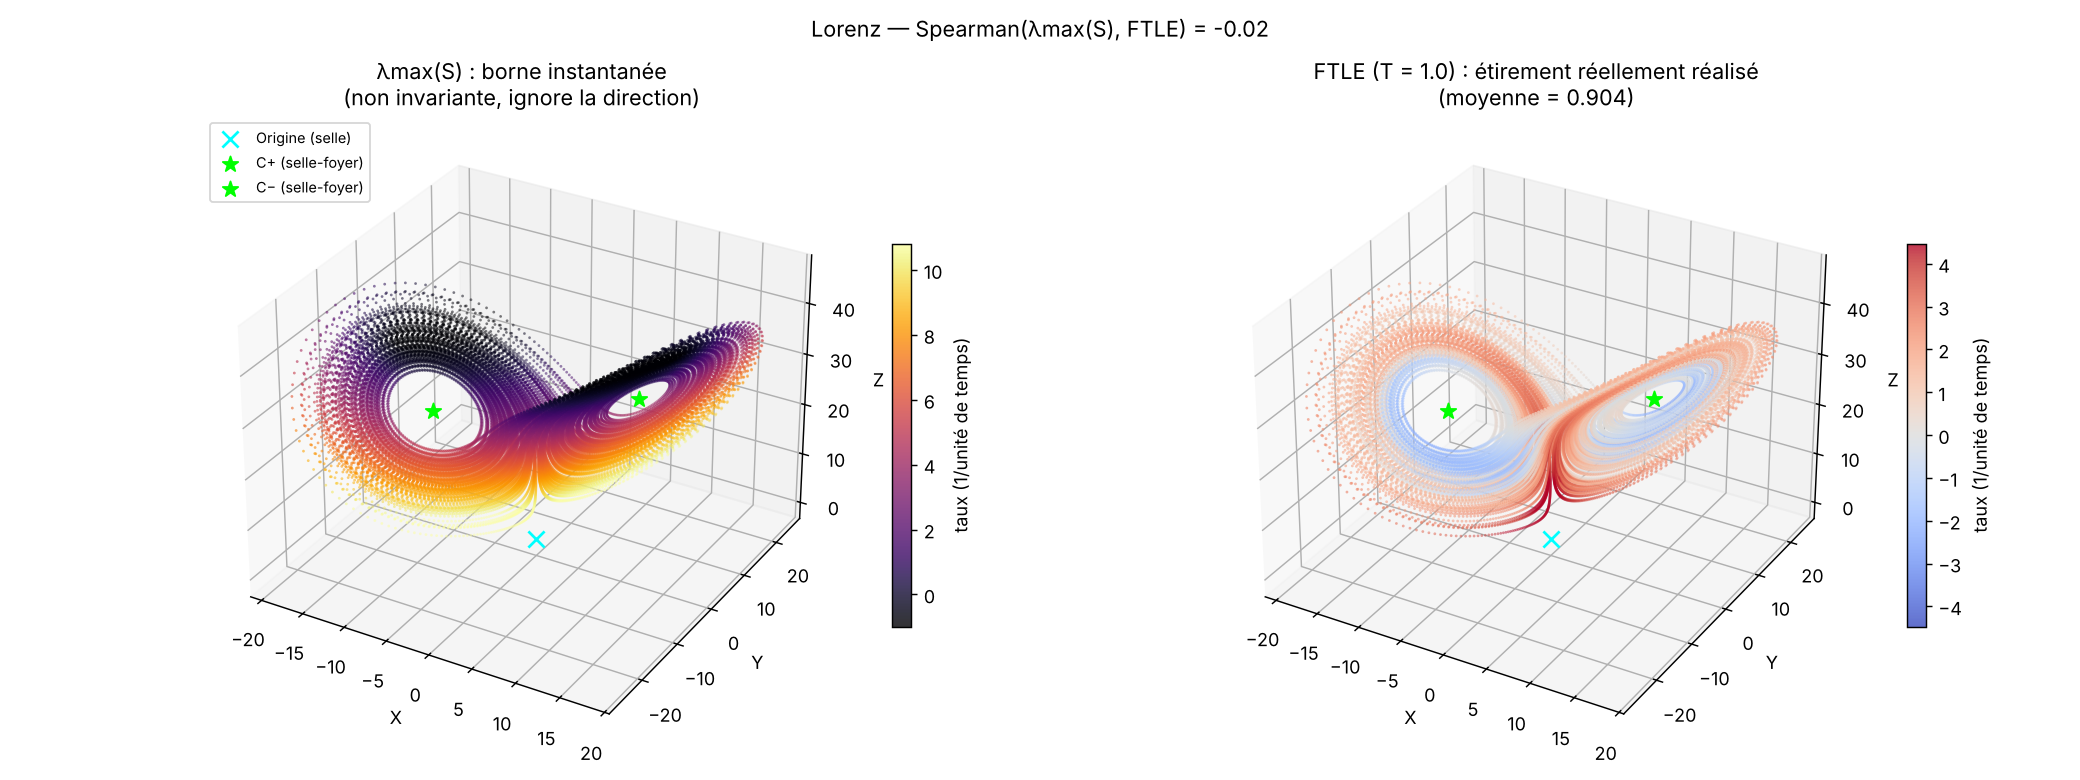
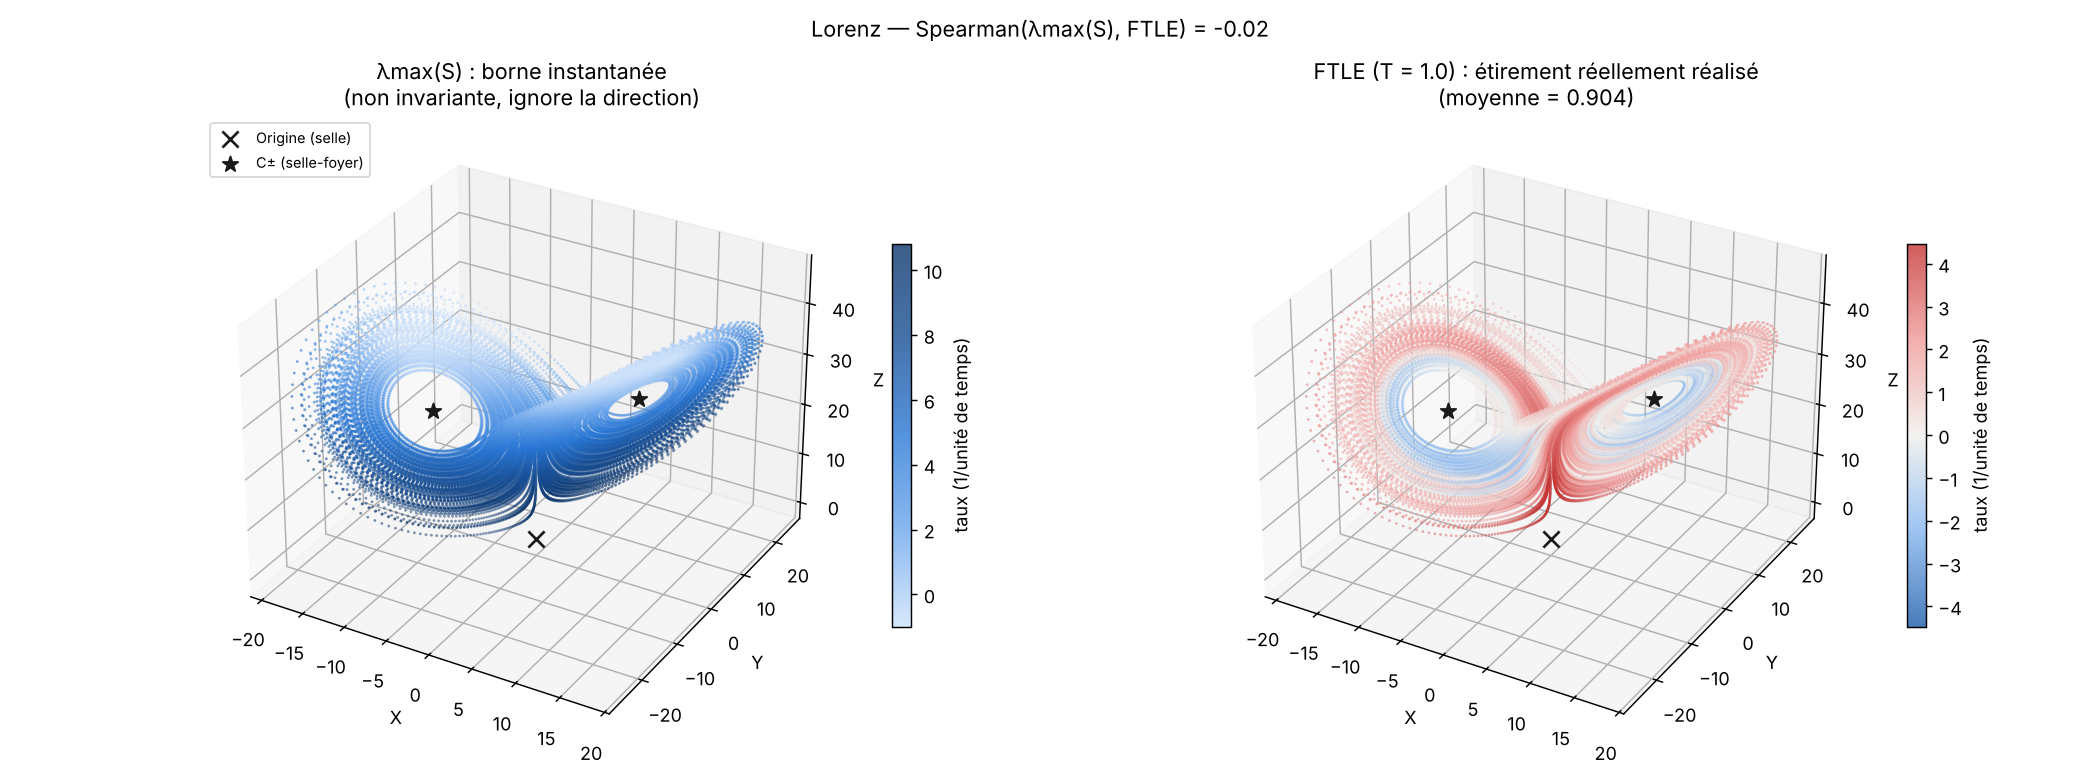
Figures Lorenz : cartes de couleur une teinte / divergente, étiquettes directes
- λmax(S) : séquentiel bleu une teinte (au lieu d'inferno multi-teinte)
- FTLE : divergent bleu / gris neutre / rouge centré sur 0
- points fixes en encre neutre, identité par la forme du marqueur
- balayage : étiquettes directes en bout de courbe, sans chevauchement
Palette des séries validée (CVD ΔE 24.7, vision normale ΔE 33.6).
Données inchangées.

Claude-Session: https://claude.ai/code/session_0179WZYpqEaHk8XJco4JvuKn

diff --git a/lorenz_stretching.py b/lorenz_stretching.py
@@ -81,6 +81,13 @@ def ftle_centered(g_step, T):
     return ftle, slice(w // 2, len(ftle) - w // 2)
 
 
+# Séquentiel = une teinte, clair -> foncé ; divergent = bleu / gris neutre / rouge
+SEQ_BLUE = matplotlib.colors.LinearSegmentedColormap.from_list(
+    "seq_blue", ["#cde2fb", "#6da7ec", "#2a78d6", "#184f95", "#0d366b"])
+DIV_BLUE_RED = matplotlib.colors.LinearSegmentedColormap.from_list(
+    "div_blue_red", ["#1c5cab", "#86b6ef", "#f0efec", "#f09a99", "#c43534"])
+
+
 def main():
     T_ftle = float(sys.argv[1]) if len(sys.argv) > 1 else 1.0  # fenêtre FTLE (unités de temps)
     OUT = "lorenz_stretching.png" if T_ftle == 1.0 else f"lorenz_stretching_T{T_ftle:g}.png"
@@ -105,13 +112,14 @@ def main():
 
     # Points fixes : C± sont des selles-foyers (instables pour rho > ~24.74)
     C_plus = np.array([np.sqrt(beta * (rho - 1)), np.sqrt(beta * (rho - 1)), rho - 1])
-    fixed = {"Origine (selle)": (np.zeros(3), "cyan", "x"),
-             "C+ (selle-foyer)": (C_plus, "lime", "*"),
-             "C− (selle-foyer)": (C_plus * [-1, -1, 1], "lime", "*")}
+    # Identité portée par la forme du marqueur + la légende, pas par la couleur
+    fixed = {"Origine (selle)": (np.zeros(3), "#1a1a19", "x"),
+             "C± (selle-foyer)": (C_plus, "#1a1a19", "*"),
+             None: (C_plus * [-1, -1, 1], "#1a1a19", "*")}
 
     fig = plt.figure(figsize=(16, 6))
-    panels = [(lam_S, "λmax(S) : borne instantanée\n(non invariante, ignore la direction)", "inferno", None),
-              (ftle, f"FTLE (T = {T_ftle}) : étirement réellement réalisé\n(moyenne = {lambda1:.3f})", "coolwarm", 0.0)]
+    panels = [(lam_S, "λmax(S) : borne instantanée\n(non invariante, ignore la direction)", SEQ_BLUE, None),
+              (ftle, f"FTLE (T = {T_ftle}) : étirement réellement réalisé\n(moyenne = {lambda1:.3f})", DIV_BLUE_RED, 0.0)]
     tr = traj[valid]
     for k, (val, title, cmap, center) in enumerate(panels, start=1):
         ax = fig.add_subplot(1, 2, k, projection="3d")
@@ -123,7 +131,7 @@ def main():
             norm = matplotlib.colors.TwoSlopeNorm(vcenter=center, vmin=-m, vmax=m)
         sc = ax.scatter(tr[:, 0], tr[:, 1], tr[:, 2], c=v, cmap=cmap, norm=norm, s=0.3, alpha=0.8)
         for lab, (p, col, mk) in fixed.items():
-            ax.scatter(*p, c=col, s=80, marker=mk, label=lab)
+            ax.scatter(*p, c=col, s=80, marker=mk, label=lab, depthshade=False)
         ax.set_title(title)
         ax.set_xlabel("X"); ax.set_ylabel("Y"); ax.set_zlabel("Z")
         fig.colorbar(sc, ax=ax, shrink=0.6, label="taux (1/unité de temps)")

diff --git a/lorenz_ftle_sweep.py b/lorenz_ftle_sweep.py
@@ -84,8 +84,10 @@ ax.plot(T_grid, mg, color=C2, lw=2, label="uᵀSu vs FTLE")
 ax.axhline(0, color="#888888", lw=0.8)
 ax.axhline(0.5, color="#888888", lw=0.8, ls=":")
 ax.text(T_grid[-1], 0.52, "seuil 0,5", ha="right", va="bottom", fontsize=8, color="#555555")
-ax.text(T_grid[3], mS[3] - 0.06, "λmax(S)", color="#333333", fontsize=9, va="top")
-ax.text(T_grid[3], mg[3] + 0.04, "uᵀSu", color="#333333", fontsize=9, va="bottom")
+# Étiquettes directes en bout de courbe (encre texte, pas la couleur de série)
+ax.text(T_grid[-1] + 0.06, mS[-1], "λmax(S)", color="#333333", fontsize=9, va="center")
+ax.text(T_grid[-1] + 0.06, mg[-1], "uᵀSu", color="#333333", fontsize=9, va="center")
+ax.set_xlim(0, T_grid[-1] + 0.55)
 ax.set_xlabel("Fenêtre FTLE T (unités de temps)")
 ax.set_ylabel("Corrélation de Spearman avec le FTLE")
 ax.set_title(f"Lorenz — {N_IC} conditions initiales : moyenne ± écart-type "
